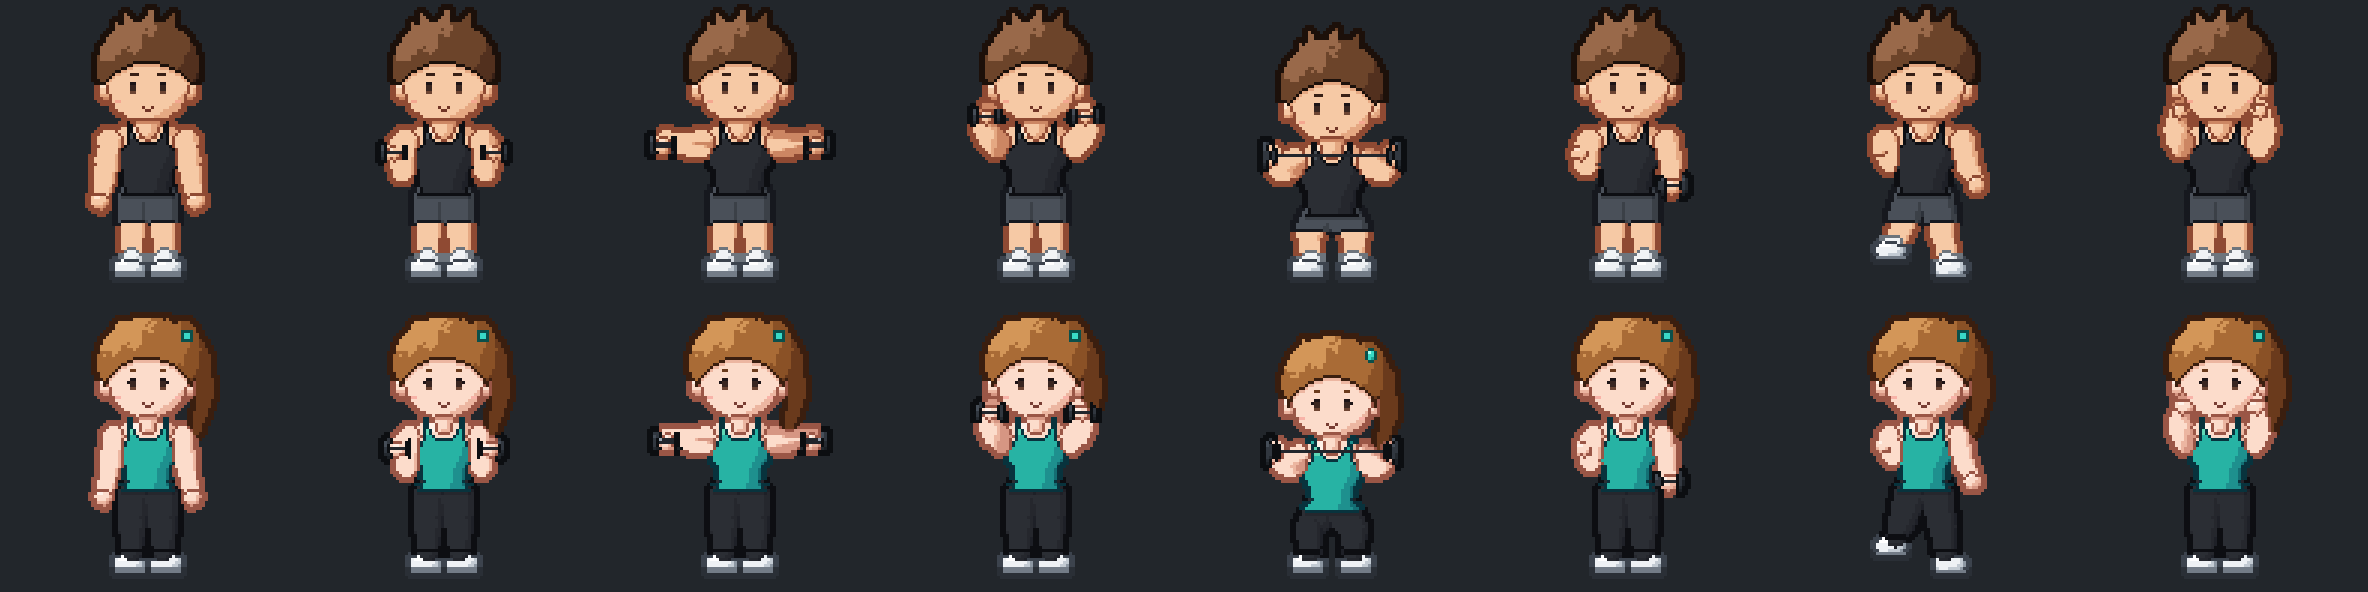
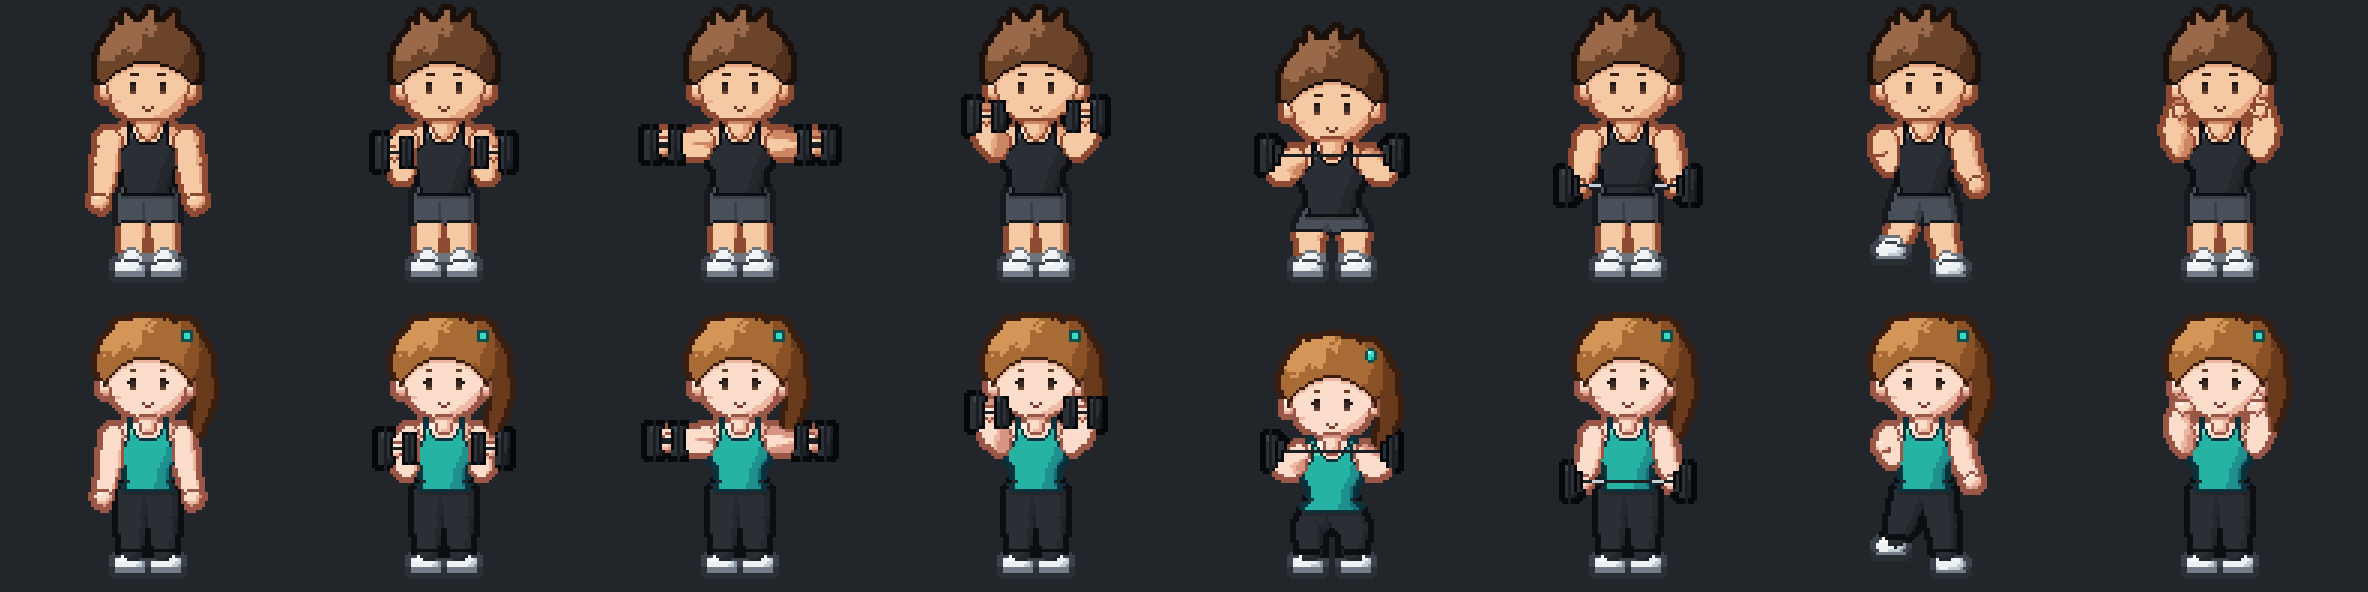
小道具を見やすく: ダンベル・バーベルを大きく、片手ダンベルはバーベルに変更
- シャフトを明るく細く、プレートを角のある大きな形にして、48px表示でも何を持っているか分かるように
- 「ダンベルを持つ」ポーズは両手で持つ「バーベルを持つ」に変更（片手の小さいダンベルは分かりにくいため）

diff --git a/js/art/character.js b/js/art/character.js
@@ -38,7 +38,7 @@ export const POSES = [
   { id: 'raise', name: 'サイドレイズ' },
   { id: 'press', name: 'ショルダープレス' },
   { id: 'squat', name: 'スクワット' },
-  { id: 'row', name: 'ダンベルを持つ' },
+  { id: 'row', name: 'バーベルを持つ' },
   { id: 'run', name: '走る' },
   { id: 'stretch', name: 'ストレッチ' },
 ];
@@ -48,7 +48,7 @@ const POSE_DEF = {
   raise: { arm: (s) => [13, 2, 25, -1], prop: 'dumbbell' },
   press: { arm: (s) => [9, -7, 7, -20], prop: 'dumbbell' },
   squat: { arm: (s) => [10, 6, 15, -5], prop: 'barbellBack', drop: 13, leg: 'squat' },
-  row: { arm: (s) => (s < 0 ? [3, 16, 6, 4] : [3.2, 14, 4, 26]), prop: 'dumbbellOne', lean: true },
+  row: { arm: (s) => [4, 18, 7, 26], prop: 'barbellHold' },
   run: { arm: (s) => (s < 0 ? [-2, 13, 3, 1] : [4, 16, 9, 25]), leg: 'run' },
   stretch: { arm: (s) => [5, -8, 1, -24] },
 };
@@ -534,17 +534,22 @@ export function drawCharacter(look, kind = 'detail') {
   }
 
   /* 小道具（バーベル・ダンベル） */
-  const BAR = ['#22262c', '#5b646f', '#79838f', '#98a3af', '#c2cbd4'];
-  const PLATE = ['#0c0e11', '#1b1f24', '#24292f', '#31373f', '#454d57'];
+  // 小さく表示しても何を持っているか分かるよう、シャフトは細く明るく、プレートは大きく濃くする
+  const BAR = ['#1a1d22', '#8e98a4', '#aab3be', '#c6ced7', '#eef2f6'];
+  const PLATE = ['#07080a', '#15181c', '#1e2228', '#2b3037', '#3c444e'];
   const dumbbell = (x, y) => {
-    S.paint(Rows(x, y - 1.6, y + 1.6, () => 7.5), BAR, 'db' + x, { hl: false });
-    for (const d of [-1, 1]) S.paint(Ell(x + d * 7, y, 2.6, 6.2), PLATE, 'dbp' + x + d);
+    S.paint(Rows(x, y - 1.8, y + 1.8, () => 5.5), BAR, 'db' + x, { hl: false, flat: 3 });
+    for (const d of [-1, 1]) {
+      S.paint(Rows(x + d * 8, y - 10.5, y + 10.5, () => 4.6), PLATE, 'dbp' + x + d); // 角のある大きなプレート
+      S.paint(Rows(x + d * 8, y - 10.5, y + 10.5, () => 1.6), BAR, 'dbs' + x + d, { flat: 2 }); // 中央の明るい線で輪郭を出す
+    }
   };
   const barbell = (y, halfLen) => {
-    S.paint(Rows(cx, y - 1.4, y + 1.4, () => halfLen), BAR, 'bar', { hl: false });
+    S.paint(Rows(cx, y - 1.6, y + 1.6, () => halfLen), BAR, 'bar', { hl: false, flat: 3 });
     for (const d of [-1, 1]) {
-      S.paint(Ell(cx + d * (halfLen - 3), y, 3, 9.5), PLATE, 'plate' + d);
-      S.paint(Ell(cx + d * (halfLen - 8), y, 2.4, 7), PLATE, 'plate2' + d);
+      S.paint(Rows(cx + d * (halfLen - 4), y - 11, y + 11, () => 4.2), PLATE, 'plate' + d);
+      S.paint(Rows(cx + d * (halfLen - 4), y - 11, y + 11, () => 1.4), BAR, 'plateS' + d, { flat: 2 });
+      S.paint(Rows(cx + d * (halfLen - 10), y - 7.5, y + 7.5, () => 3.4), PLATE, 'plate2' + d);
     }
   };
   // 背中側に担ぐバーベルは頭より先に描く（頭の後ろに回る）
@@ -586,8 +591,7 @@ export function drawCharacter(look, kind = 'detail') {
   S.xf = null;
 
   if (pose.prop === 'dumbbell') arms.forEach((a) => dumbbell(a.wx + a.s * 1.2, a.wY + 4));
-  if (pose.prop === 'dumbbellOne') dumbbell(arms[1].wx + 1.2, arms[1].wY + 4);
-  if (pose.prop === 'barbellUp') barbell(arms[0].wY + 1, g.jointX + 22);
+  if (pose.prop === 'barbellHold') barbell(arms[0].wY + 4, g.jointX + 20);
 
   S.outline(kind === 'gym' ? 2 : 1);
   return { canvas: S.toCanvas(), shoulderWidth: g.shoulderWidth, res };

diff --git a/sw.js b/sw.js
@@ -1,5 +1,5 @@
 // オフラインでも開けるようにする。常にネットの最新を優先し、つながらない時だけ保存済みの控えを使う。
-const CACHE = 'kmg-v9';
+const CACHE = 'kmg-v10';
 const CORE = [
   './', './index.html', './css/app.css', './manifest.webmanifest',
   './js/app/main.js', './js/app/data.js', './js/app/exercises.js', './js/app/store.js', './js/app/logo.js', './js/app/cloud.js', './js/app/config.js',
